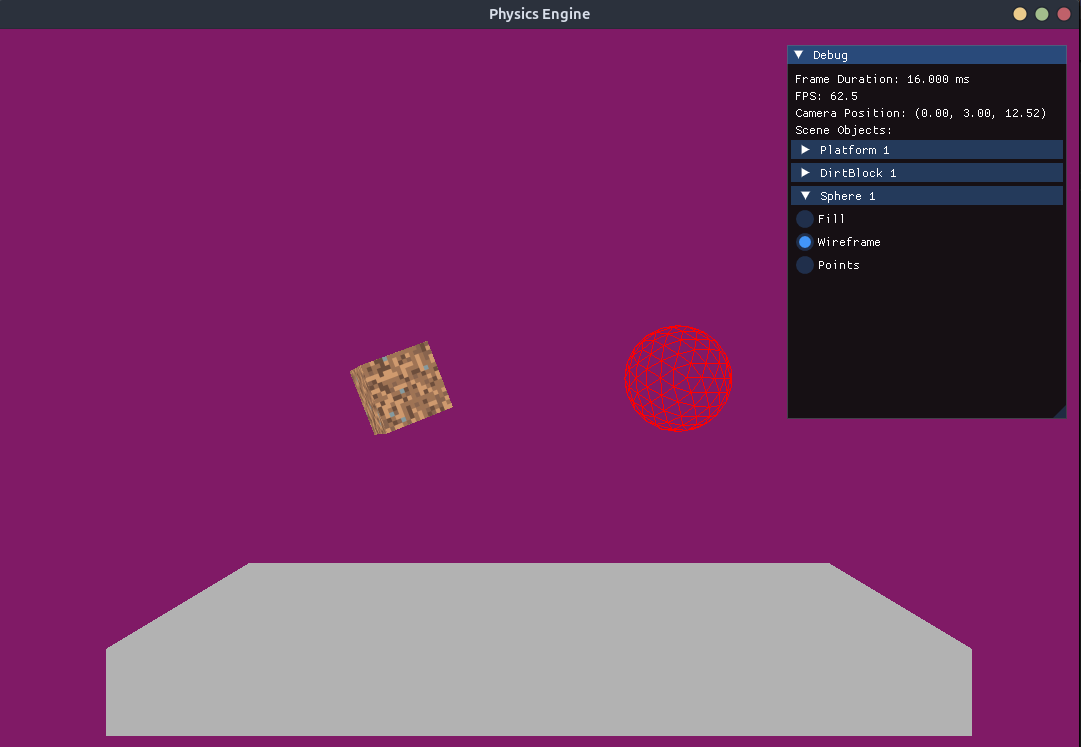
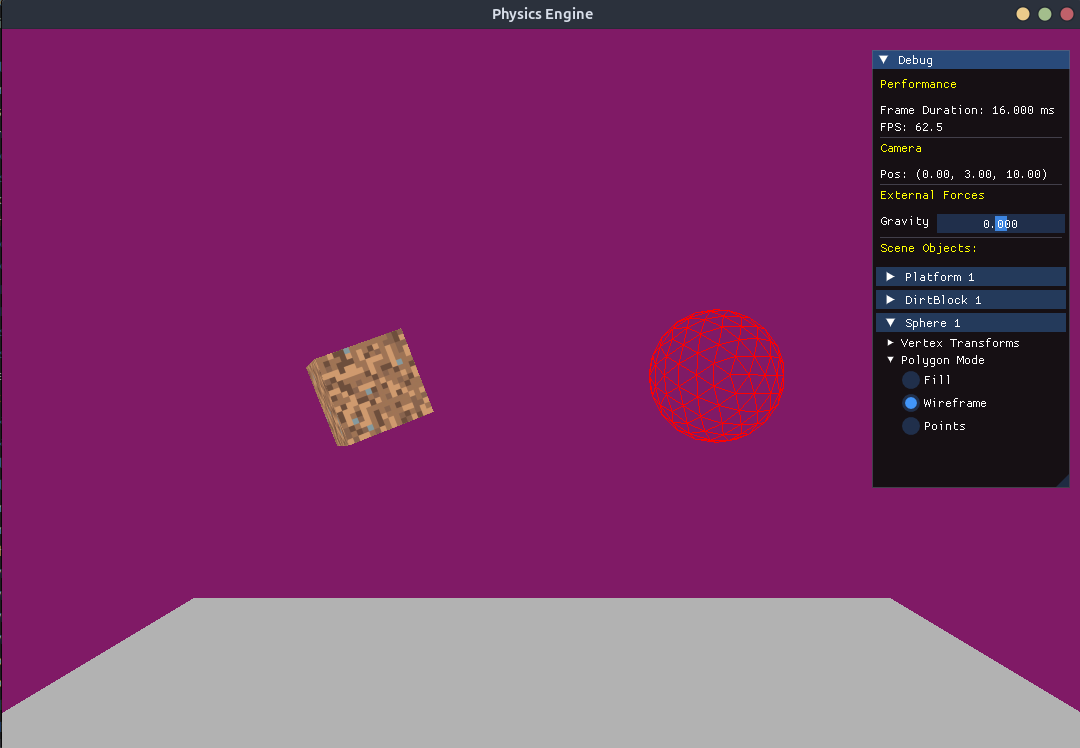
edited README

diff --git a/src/Scene.cpp b/src/Scene.cpp
@@ -22,7 +22,7 @@ Scene::Scene(
     Shader sphereShader = m_shaderManager->getShader("sphere");
 
     Mesh cubeMesh = m_meshManager->getMesh("cube");
-    // Mesh sphereMesh = m_meshManager->getMesh("sphere");
+    Mesh sphereMesh = m_meshManager->getMesh("sphere");
 
     Texture dirtBlockTexture = m_textureManager->getTexture("dirtblock");
 
@@ -52,14 +52,14 @@ Scene::Scene(
     // dirtBlock
     Transform dirtBlockTransform;
     dirtBlockTransform.setProjection(*m_camera);
-    glm::vec3 dirtBlockPosition(0.0f, 0.5f, 0.0f);
+    glm::vec3 dirtBlockPosition(-2.0f, 3.0f, 0.0f);
     glm::mat4 dirtBlockTranslationMatrix = glm::translate(
         glm::mat4(1.0f),
         dirtBlockPosition
     );
     dirtBlockTranslationMatrix = glm::rotate(
         dirtBlockTranslationMatrix,
-        glm::radians(0.0f),
+        glm::radians(30.0f),
         glm::vec3(0.0f, 1.0f, 1.0f)
     );
     dirtBlockTranslationMatrix = glm::scale(
@@ -79,28 +79,28 @@ Scene::Scene(
     m_objects.push_back(std::move(dirtBlock));
 
 
-    // // sphere
-    // Transform sphereTransform;
-    // sphereTransform.setProjection(*m_camera);
-    // glm::vec3 spherePosition(2.0f, 3.0f, 0.0f);
-    // glm::mat4 sphereTranslationMatrix = glm::translate(
-    //     glm::mat4(1.0f),
-    //     spherePosition
-    // );
-    // sphereTranslationMatrix = glm::scale(
-    //     sphereTranslationMatrix,
-    //     glm::vec3(0.3f, 0.3f, 0.3f)
-    // );
-    // sphereTransform.setModel(sphereTranslationMatrix);
-    // sphereTransform.setView(*m_camera);
-    // auto sphere = std::make_unique<Sphere>(
-    //     "Sphere",
-    //     sphereTransform,
-    //     sphereShader,
-    //     sphereMesh,
-    //     false
-    // );
-    // m_objects.push_back(std::move(sphere));
+    // sphere
+    Transform sphereTransform;
+    sphereTransform.setProjection(*m_camera);
+    glm::vec3 spherePosition(2.0f, 3.0f, 0.0f);
+    glm::mat4 sphereTranslationMatrix = glm::translate(
+        glm::mat4(1.0f),
+        spherePosition
+    );
+    sphereTranslationMatrix = glm::scale(
+        sphereTranslationMatrix,
+        glm::vec3(0.3f, 0.3f, 0.3f)
+    );
+    sphereTransform.setModel(sphereTranslationMatrix);
+    sphereTransform.setView(*m_camera);
+    auto sphere = std::make_unique<Sphere>(
+        "Sphere",
+        sphereTransform,
+        sphereShader,
+        sphereMesh,
+        false
+    );
+    m_objects.push_back(std::move(sphere));
 
     std::cout << name << " created.\n";
 }

diff --git a/src/PhysicsEngine.cpp b/src/PhysicsEngine.cpp
@@ -80,10 +80,10 @@ PhysicsEngine::PhysicsEngine(
         "../res/meshes/cube.obj"
     );
 
-    // auto sphereMesh = std::make_unique<Mesh>(
-    //     "sphere",
-    //     "../res/meshes/sphere.obj"
-    // );
+    auto sphereMesh = std::make_unique<Mesh>(
+        "sphere",
+        "../res/meshes/sphere.obj"
+    );
 
     // initialize textures
     auto dirtBlockTexture = std::make_unique<Texture>(
@@ -95,7 +95,7 @@ PhysicsEngine::PhysicsEngine(
     shaderManager->addShader(std::move(platformShader));
     shaderManager->addShader(std::move(sphereShader));
     meshManager->addMesh(std::move(cubeMesh));
-    // meshManager->addMesh(std::move(sphereMesh));
+    meshManager->addMesh(std::move(sphereMesh));
     textureManager->addTexture(std::move(dirtBlockTexture));
 
     float FOV = 45.0f;
